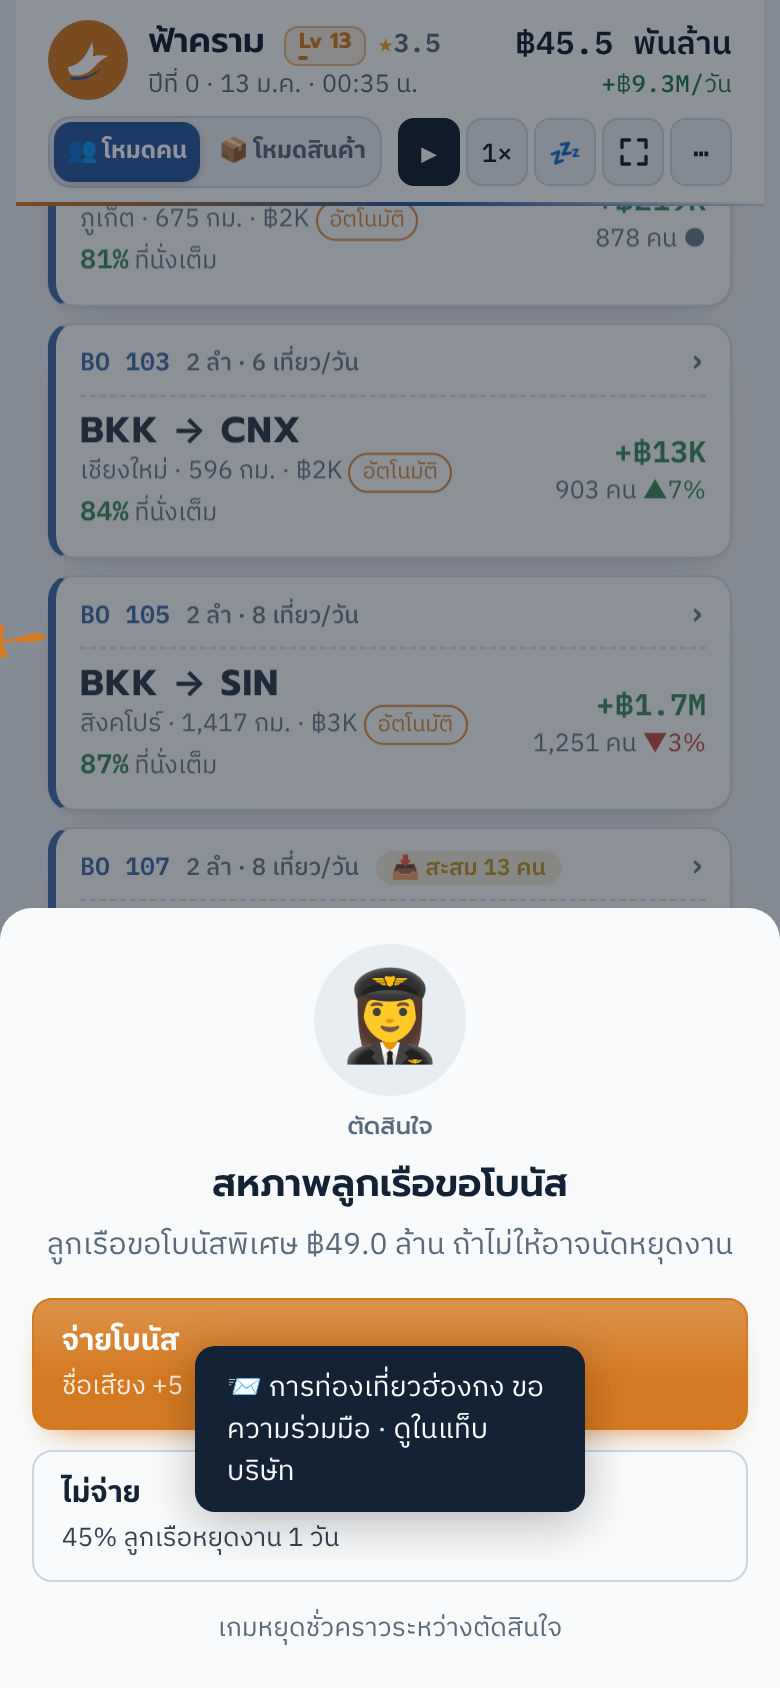
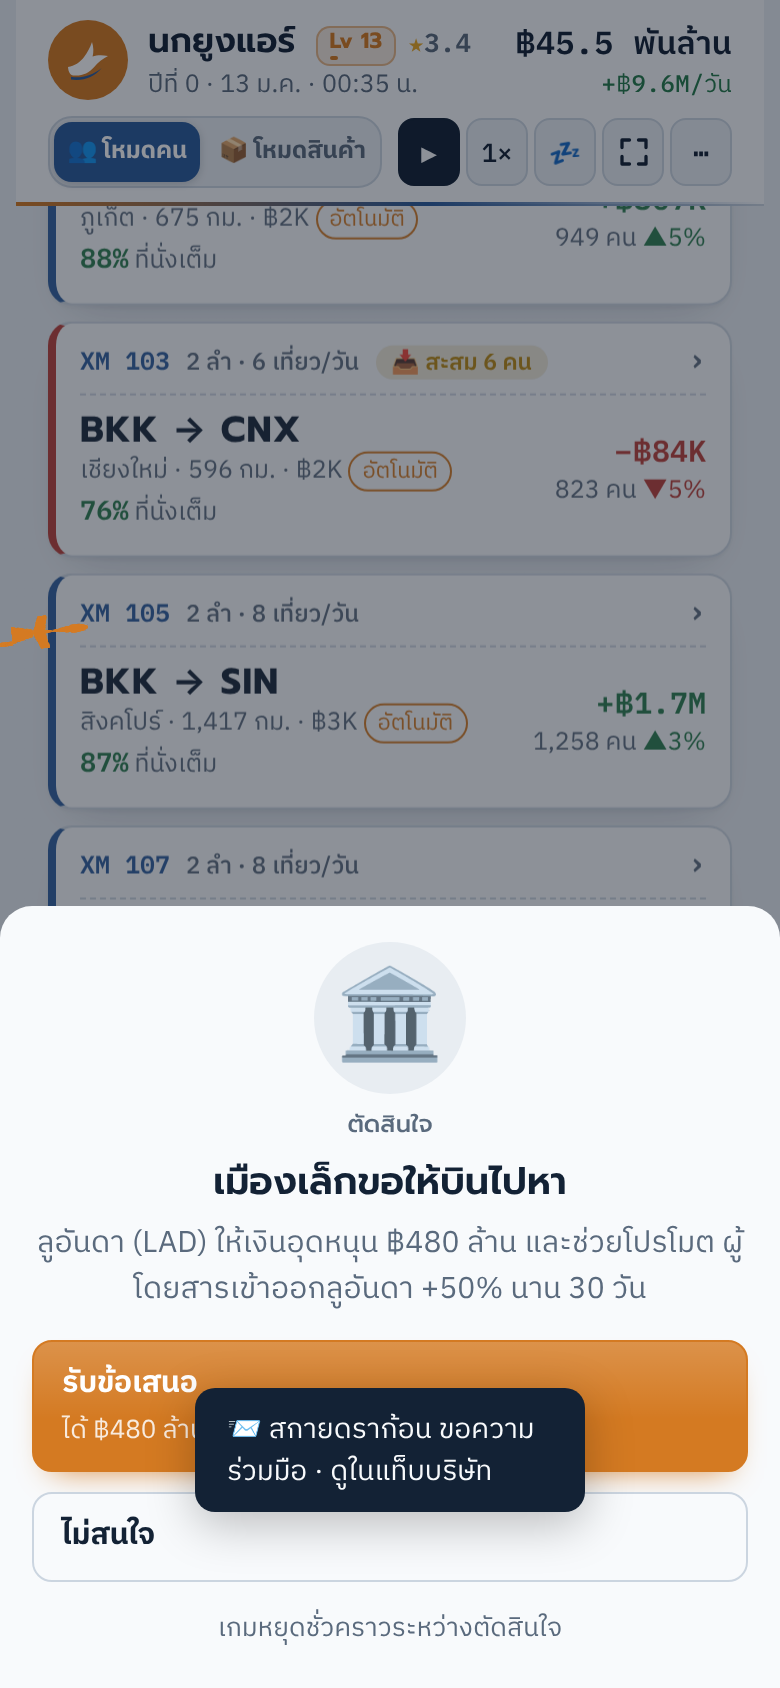
Show capacity of parked aircraft on the route sheet (v1.43)
- Each parked aircraft shows tonnes (or seats) per flight, flights per day
  on this route and the daily total, plus its cargo kind

Claude-Session: https://claude.ai/code/session_014RDu36NGZdJHnhfEAQskbE

diff --git a/index.html b/index.html
@@ -17,7 +17,7 @@
 <link rel="preconnect" href="https://fonts.googleapis.com">
 <link rel="preconnect" href="https://fonts.gstatic.com" crossorigin>
 <link rel="stylesheet" href="https://fonts.googleapis.com/css2?family=IBM+Plex+Sans+Thai:wght@400;500;600;700&family=Prompt:wght@500;600;700&family=IBM+Plex+Mono:wght@500;600&family=Anuphan:wght@400&family=Chakra+Petch:ital,wght@0,700;1,700&display=swap">
-<link rel="stylesheet" href="css/style.css?v=1.42">
+<link rel="stylesheet" href="css/style.css?v=1.43">
 </head>
 <body>
 
@@ -25,8 +25,8 @@
 <div id="app"></div>
 <div id="toast" class="toast" hidden></div>
 
-<script src="js/geo.js?v=1.42"></script>
-<script src="js/game.js?v=1.42"></script>
+<script src="js/geo.js?v=1.43"></script>
+<script src="js/game.js?v=1.43"></script>
 <script>
 // offline + "add to home screen": the service worker serves the last version when there is no network,
 // and always fetches the newest files first when online (so updates show up on a normal reload)
